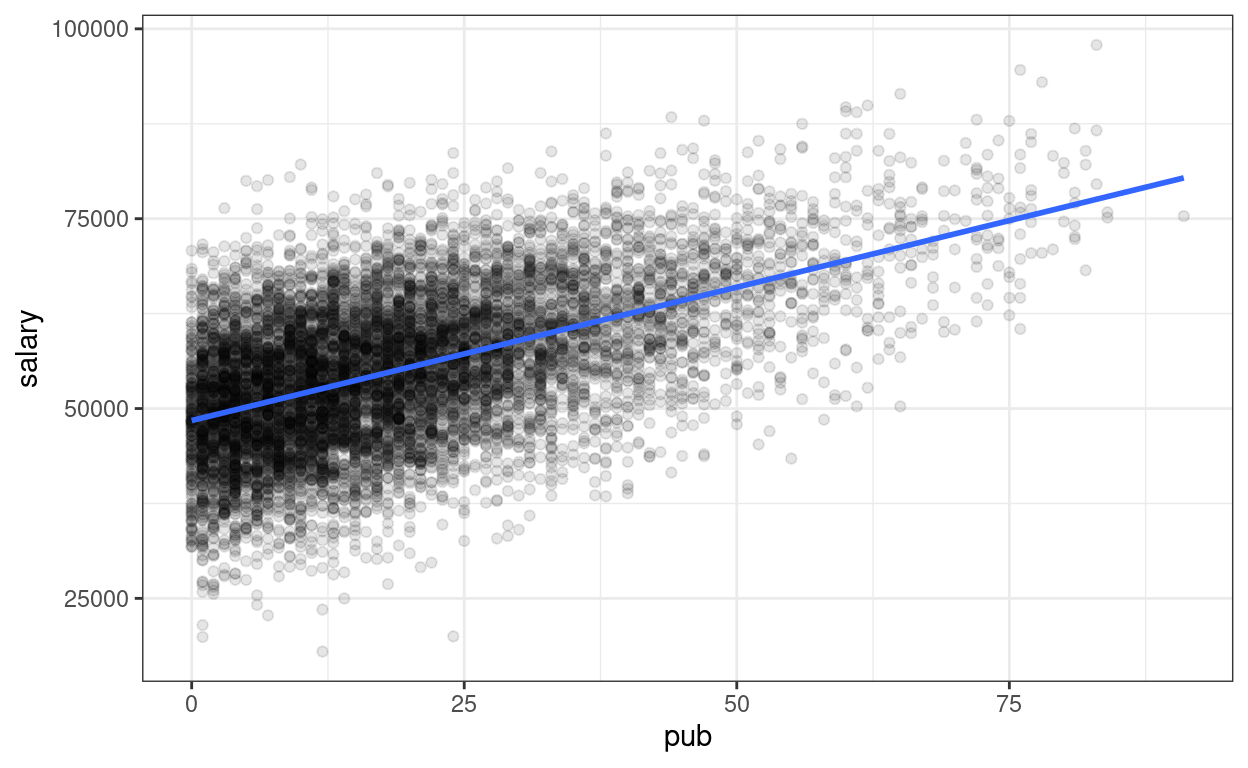
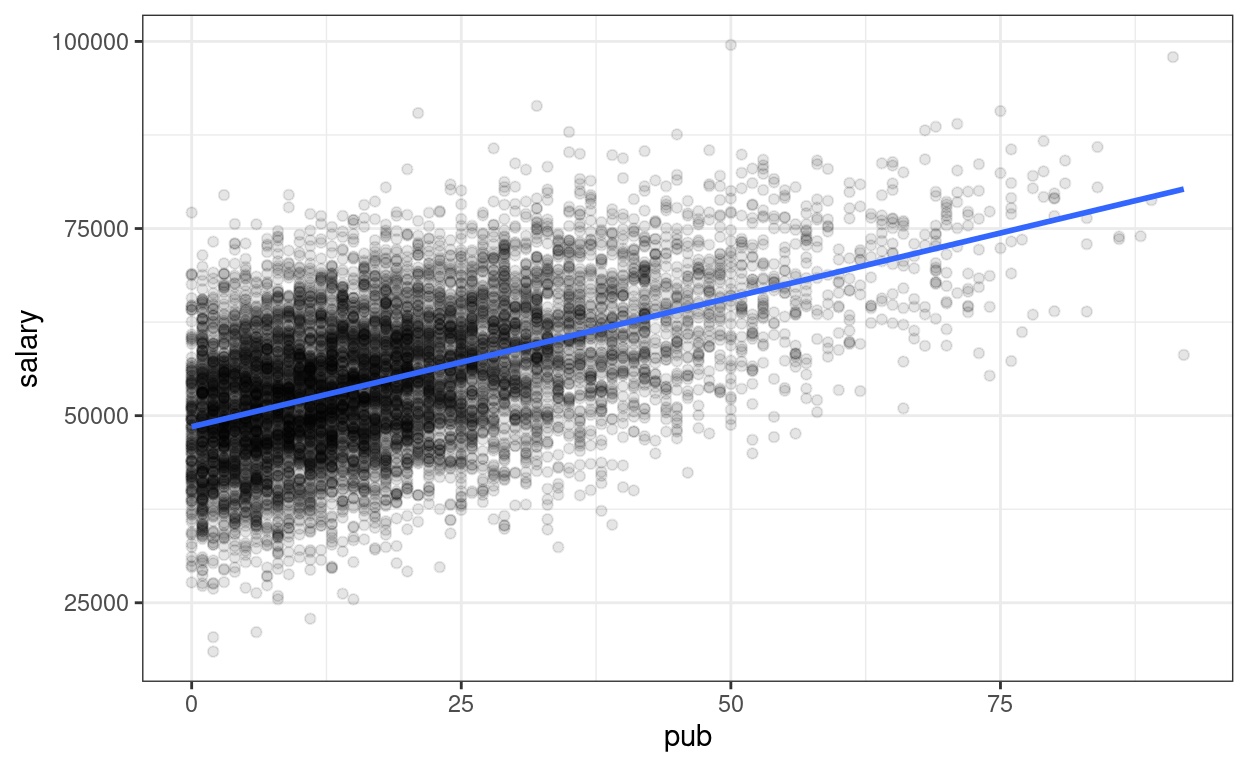
Update website

diff --git a/_site/rcode2.html b/_site/rcode2.html
@@ -2423,12 +2423,12 @@ R Codes
 </code></pre>
 </div>
 <pre><code>&gt;#   id time pub sex citation salary    sim_1
-&gt;# 1  1    3  18   1       50  51876 60120.54
-&gt;# 2  2    6   3   1       26  54511 47425.58
-&gt;# 3  3    3   2   1       50  53425 53177.68
-&gt;# 4  4    8  17   0       34  61863 47291.70
-&gt;# 5  5    9  11   1       41  52926 59903.98
-&gt;# 6  6    6   6   0       37  47034 45876.32</code></pre>
+&gt;# 1  1    3  18   1       50  51876 51220.42
+&gt;# 2  2    6   3   1       26  54511 54714.87
+&gt;# 3  3    3   2   1       50  53425 47461.96
+&gt;# 4  4    8  17   0       34  61863 40431.28
+&gt;# 5  5    9  11   1       41  52926 63595.36
+&gt;# 6  6    6   6   0       37  47034 59469.00</code></pre>
 <div class="sourceCode">
 <pre class="sourceCode r"><code class="sourceCode r"><span class='co'># Plot the data (add on to the population)</span>
 <span class='va'>p_pop</span> <span class='op'>+</span> 
@@ -2714,7 +2714,7 @@ R Codes
 </div>
 <h3 id="interpretations-1">Interpretations</h3>
 <blockquote>
-<p>Faculty who have worked <em>longer</em> tended to have <em>more</em> publications <strong>For faculty who graduate around the same time</strong>, a difference of 1 publication is associated with an estimated difference in salary of <span class="math inline">\(133.0, 95% CI [\)</span>-52.6, $318.6], which was not significant.</p>
+<p>Faculty who have worked <em>longer</em> tended to have <em>more</em> publications <strong>For faculty who graduate around the same time</strong>, a difference of 1 publication is associated with an estimated difference in salary of $133.0, 95% CI [$-52.6, $318.6], which was not significant.</p>
 </blockquote>
 <h3 id="diagnostics">Diagnostics</h3>
 <div class="layout-chunk" data-layout="l-body">
@@ -2724,6 +2724,7 @@ R Codes
 </div>
 <p><img src="rcode2_files/figure-html5/m3-diagnostics-1.png" width="624" /></p>
 </div>
+<p>The red line is the implied association based on the model, whereas the blue line is a non-parametric smoother not based on the model. If the two lines show big discrepancies (especially if in the middle), it may suggest the linearity assumptions in the model does not hold.</p>
 <h3 id="effect-size">Effect size</h3>
 <div class="layout-chunk" data-layout="l-body">
 <div class="sourceCode">
